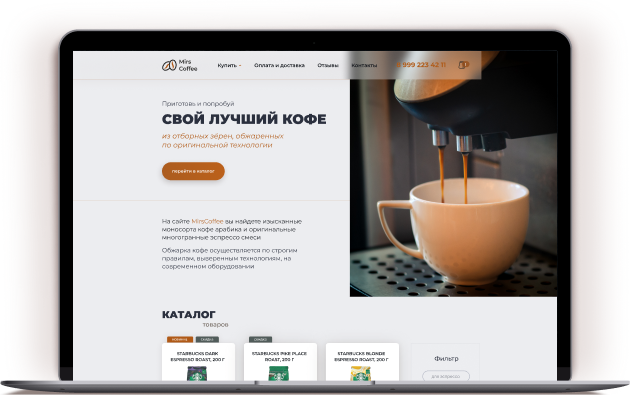
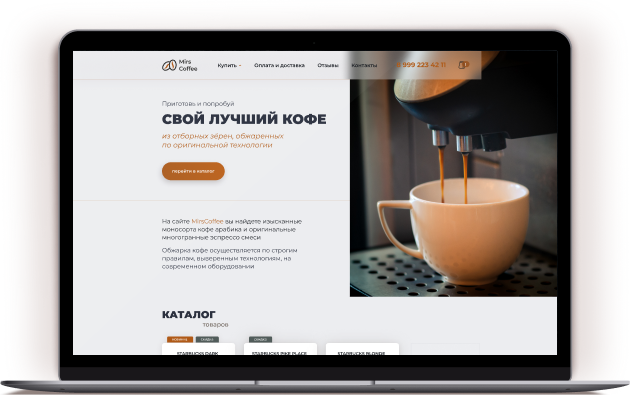
correct some issues

Changed region(s): [[0.0903, 0.881, 0.9033, 0.9722]]

diff --git a/index.html b/index.html
@@ -234,12 +234,48 @@
 										</div>
 						</div>
 					</div>
-					
-
+					<div class="my-portfolio__more">
+						<button class="button-white">see more (6 projects)</button>
+					</div>
 				</div>
 			</div>
 			</section>
 		</div>
+
+		<section class="getintouch">
+			<div class="background__fill--orange">
+				<div class="container">
+					<div class="getintouch__content">
+						<div class="getintouch__leftside">
+							<div class="getintouch__title">Get in <span>Touch</span></div>
+							<div class="getintouch__information">If you want to get in touch just say hi, you can email me at <span>axl.s.kennedy@gmail.com</span>, or use this form and it’ll go right to my inbox</div>
+							<div class="getintouch__icon-area">
+								<div class="getintouch__icon">
+									<svg width="60" height="60" viewBox="0 0 60 60" fill="none" xmlns="http://www.w3.org/2000/svg">
+										<path d="M39.8712 18H21.6288C19.5692 18 18 19.5692 18 21.6288V39.8712C18 41.9308 19.5692 43.5 21.6288 43.5H39.8712C41.9308 43.5 43.5 41.9308 43.5 39.8712V21.6288C43.5 19.5692 41.9308 18 39.8712 18ZM30.75 38.4C34.9673 38.4 38.4 35.0654 38.4 31.0442C38.4 30.3577 38.3019 29.5731 38.1058 28.9846H40.2635V39.3808C40.2635 39.8712 39.8712 40.3615 39.2827 40.3615H22.2173C21.7269 40.3615 21.2365 39.9692 21.2365 39.3808V28.8865H23.4923C23.2962 29.5731 23.1981 30.2596 23.1981 30.9462C23.1 35.0654 26.5327 38.4 30.75 38.4ZM30.75 35.4577C28.0038 35.4577 25.8462 33.3 25.8462 30.6519C25.8462 28.0038 28.0038 25.8462 30.75 25.8462C33.4962 25.8462 35.6538 28.0038 35.6538 30.6519C35.6538 33.3981 33.4962 35.4577 30.75 35.4577ZM40.1654 24.9635C40.1654 25.5519 39.675 26.0423 39.0865 26.0423H36.3404C35.7519 26.0423 35.2615 25.5519 35.2615 24.9635V22.3154C35.2615 21.7269 35.7519 21.2365 36.3404 21.2365H39.0865C39.675 21.2365 40.1654 21.7269 40.1654 22.3154V24.9635Z" fill="white"/>
+										</svg>
+								</div>
+								<div class="getintouch__icon">
+									<svg width="60" height="60" viewBox="0 0 60 60" fill="none" xmlns="http://www.w3.org/2000/svg">
+										<path d="M30.5125 27.6625V33.6H38.5875C37.4 36.8062 34.3125 38.9437 30.75 38.9437C26.1187 38.9437 22.4375 35.2625 22.4375 30.6312C22.4375 26 26.1187 22.3187 30.75 22.3187C32.5312 22.3187 34.1938 22.9125 35.6188 23.8625L36.0938 24.2188L39.6562 19.5875L39.1813 19.2312C36.6875 17.45 33.8375 16.5 30.75 16.5C22.9125 16.5 16.5 22.9125 16.5 30.75C16.5 38.5875 22.9125 45 30.75 45C38.5875 45 45 38.5875 45 30.75V27.7812H30.5125V27.6625Z" fill="white"/>
+										</svg>										
+								</div>
+								<div class="getintouch__icon">
+									<svg width="60" height="60" viewBox="0 0 60 60" fill="none" xmlns="http://www.w3.org/2000/svg">
+										<path d="M44.0584 32.6656C44.1526 31.9123 44.2468 31.2532 44.2468 30.5C44.2468 22.9675 38.1266 16.7532 30.5 16.7532C29.7468 16.7532 29.0877 16.8474 28.3344 16.9416C27.1104 16.2825 25.7922 16 24.474 16C19.7662 16 16 19.7662 16 24.474C16 25.7922 16.2825 27.1104 16.9416 28.3344C16.8474 29.0877 16.7532 29.7468 16.7532 30.5C16.7532 38.0325 22.8734 44.2468 30.5 44.2468C31.2532 44.2468 31.9123 44.1526 32.6656 44.0584C33.8896 44.6234 35.2078 45 36.526 45C41.2338 45 45 41.2338 45 36.526C45 35.2078 44.6234 33.8896 44.0584 32.6656ZM36.2435 35.4903C35.961 36.0552 35.5844 36.526 35.0195 36.9026C34.4545 37.2792 33.8896 37.5617 33.1364 37.75C32.3831 37.9383 31.5357 38.0325 30.5942 38.0325C28.6169 38.0325 27.0162 37.5617 25.8864 36.7143C25.2273 36.1494 24.6623 35.4903 24.3799 34.6429C24.0032 33.8896 24.6623 32.9481 25.6039 32.9481H25.8864C26.4513 32.9481 27.0162 33.3247 27.2045 33.7955C27.3929 34.2662 27.6753 34.6429 28.0519 34.9253C28.6169 35.3961 29.4643 35.5844 30.5 35.5844C31.4416 35.5844 32.1948 35.3961 32.7597 35.1136C33.3247 34.8312 33.6071 34.2662 33.6071 33.7013C33.6071 33.4188 33.513 33.2305 33.4188 33.0422C33.3247 32.8539 33.0422 32.6656 32.8539 32.5714C32.5714 32.3831 32.289 32.289 31.8182 32.1948C31.4416 32.1007 30.9708 31.9123 30.4058 31.8182L29.8409 31.6299C29.1818 31.4416 28.4286 31.2532 27.8636 31.0649C27.2045 30.8766 26.6396 30.5942 26.1688 30.3117C25.6981 30.0292 25.3214 29.6526 25.039 29.0877C24.7565 28.6169 24.6623 27.9578 24.6623 27.2045C24.6623 26.4513 24.8506 25.7922 25.1331 25.2273C25.4156 24.6623 25.8864 24.1916 26.3571 23.9091C26.9221 23.5325 27.487 23.25 28.2403 23.1558C28.8994 22.9675 29.6526 22.8734 30.5 22.8734C31.4416 22.8734 32.1948 22.9675 32.9481 23.1558C33.7013 23.3442 34.2662 23.6266 34.8312 24.0974C35.3961 24.474 35.7727 24.9448 36.0552 25.6039C36.526 26.4513 35.8669 27.5812 34.8312 27.5812H34.5487C33.9838 27.5812 33.513 27.2987 33.2305 26.8279C33.0422 26.5455 32.8539 26.263 32.5714 25.9805C32.1007 25.6039 31.3474 25.4156 30.5 25.4156C29.6526 25.4156 28.9935 25.6039 28.5227 25.8864C28.0519 26.1688 27.8636 26.6396 27.8636 27.1104C27.8636 27.3929 27.9578 27.5812 28.0519 27.7695C28.1461 27.9578 28.3344 28.1461 28.6169 28.2403C28.8994 28.3344 29.1818 28.5227 29.5584 28.6169C29.9351 28.711 30.4058 28.8052 30.9708 28.9935C31.5357 29.0877 32.0065 29.276 32.5714 29.3701C33.0422 29.4643 33.513 29.6526 33.9838 29.7468C34.4545 29.9351 34.8312 30.1234 35.2078 30.3117C35.5844 30.5 35.8669 30.7825 36.1494 31.0649C36.4318 31.3474 36.6201 31.724 36.7143 32.1007C36.9026 32.4773 36.9026 33.0422 36.9026 33.6071C36.7143 34.2662 36.526 34.9253 36.2435 35.4903Z" fill="white"/>
+										</svg>										
+								</div>
+								<div class="getintouch__icon">
+									<svg width="60" height="60" viewBox="0 0 60 60" fill="none" xmlns="http://www.w3.org/2000/svg">
+										<path d="M14.0261 30.5611L20.9232 33.1329L23.6119 41.7836C23.7288 42.3681 24.4302 42.485 24.8978 42.1343L28.7555 38.9779C29.1062 38.6272 29.6907 38.6272 30.1583 38.9779L37.0554 44.0047C37.523 44.3554 38.2244 44.1216 38.3413 43.5371L43.485 18.988C43.6019 18.4035 43.0174 17.819 42.4329 18.0528L14.0261 29.0414C13.3246 29.2752 13.3246 30.3273 14.0261 30.5611ZM23.2612 31.847L36.8216 23.5471C37.0554 23.4302 37.2892 23.7809 37.0554 23.8978L25.9499 34.3019C25.5992 34.6526 25.2485 35.1202 25.2485 35.7047L24.8978 38.5103C24.8978 38.861 24.3133 38.9779 24.1964 38.5103L22.7936 33.3667C22.4429 32.7822 22.6767 32.0808 23.2612 31.847Z" fill="white"/>
+										</svg>
+								</div>
+							</div>
+						</div>
+					</div>
+				</div>
+			</div>
+		</section>
 
     </div>
 	 <script src="https://ajax.googleapis.com/ajax/libs/jquery/2.1.4/jquery.min.js" type="text/javascript"></script>

diff --git a/css/style.css b/css/style.css
@@ -761,7 +761,6 @@ color: #EC8349;
 	.main-screen__hitext {
 		text-align:  left;
 	}
-
 }
 
 .my-portfolio {
@@ -808,7 +807,7 @@ color: #EC8349;
 /* blue */
 
 .project__left-side--blue {
- 	order: 1;
+	order: 1;
 }
 
 .project__left-side--blue::after{
@@ -1039,6 +1038,28 @@ margin: 0;
 
 .project__text span {
 	color: #F7523B;
+}
+
+.my-portfolio__more {
+}
+
+.button-white {
+	margin-top: 75px;
+	width: 100%;
+	height: 60px;
+	/* filter: drop-shadow(7px -1px 18px rgba(27, 62, 78, 0.)); */
+	background: #fff;
+	border: 2px solid #F2F8FA;
+	font-weight: normal;
+	font-size: 18px;
+	text-transform: uppercase;
+	color: #585972;
+	opacity: 0.7;
+	transition: all 0.3s ease;
+}
+
+.button-white:hover {
+	opacity: 1;
 }
 
 /* Адаптив для блока PORTFOLIO */
